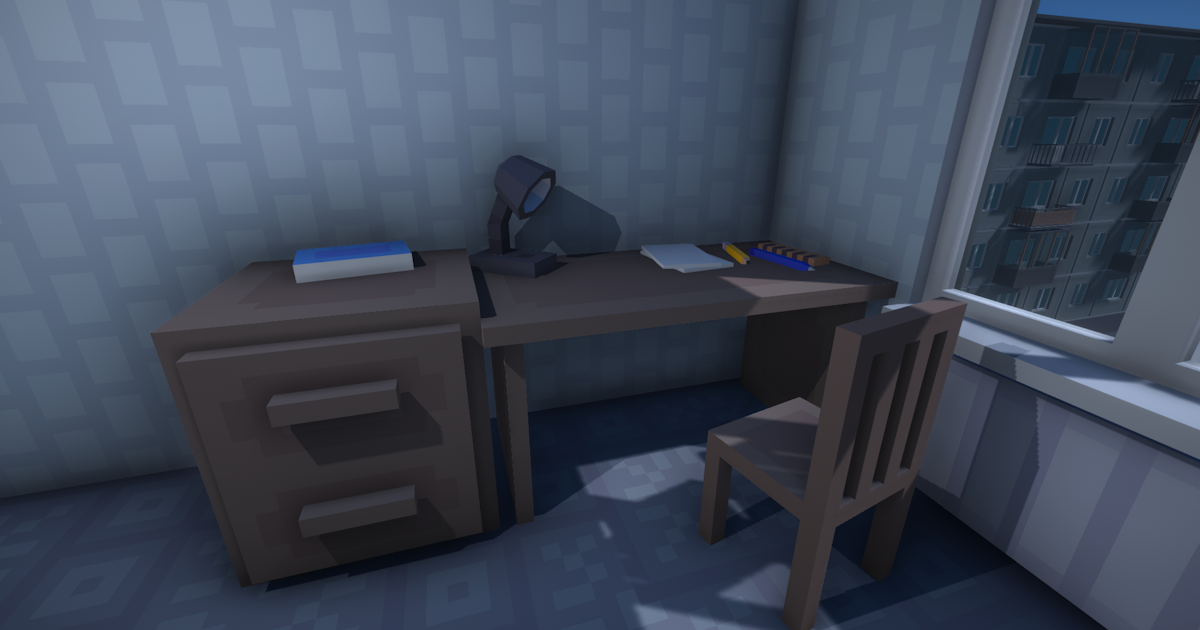
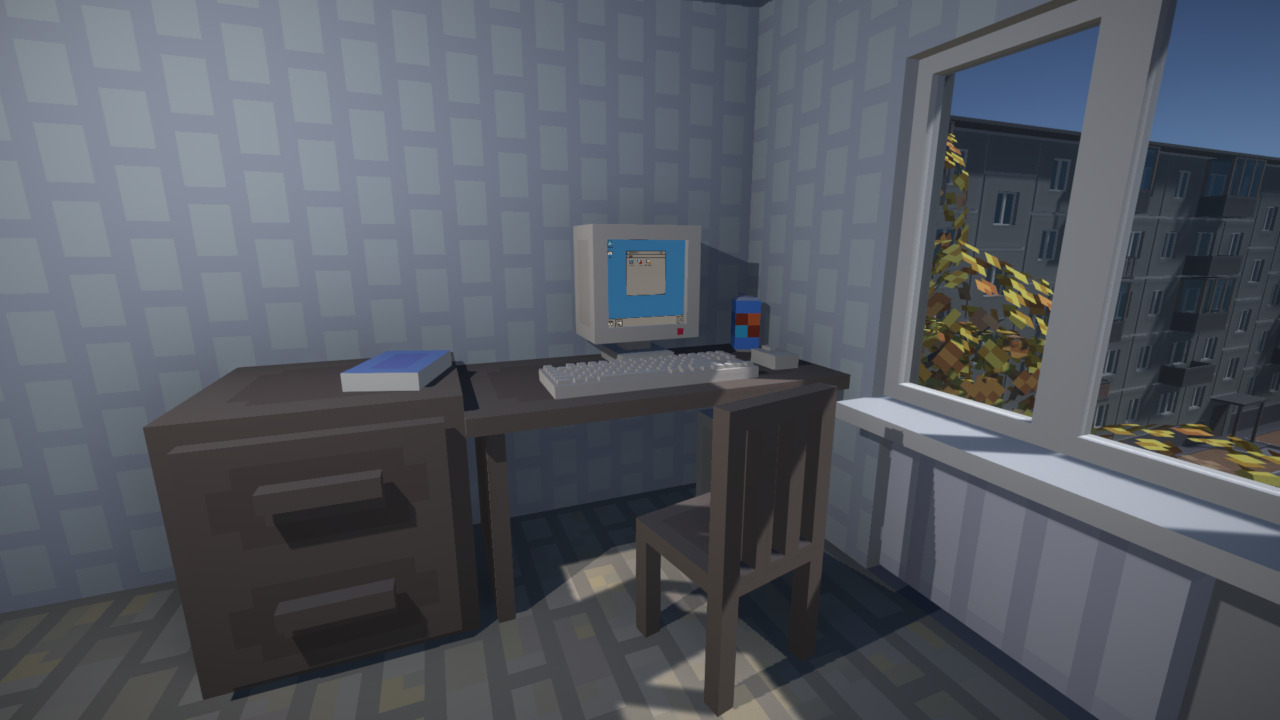
Add files via upload

diff --git a/games/itsautumn/index.html b/games/itsautumn/index.html
@@ -50,8 +50,8 @@
 					Это версия <span style="color: crimson">Dev!</span> В ней нет всех механик, интерактива и т.д.
 				</div>
 				<div class="text">
-					Версия: Dev 0.0.0.9 <br>
-					Дата обновления: 15 февраля 2024 <br>
+					Версия: Dev 0.0.0.10 <br>
+					Дата обновления: 3 августа 2024 <br>
 					Дата выхода: 25 ноября 2023
 				</div>
 			</section>
@@ -90,12 +90,12 @@
 				<a class="mlink lgame" href="https://www.dropbox.com/scl/fi/jurw08g4hs55tc7ovinly/It-s-Autumn.zip?rlkey=cuntinjyqfdgp04ffg3cvycee&st=thkb5ulo&dl=1">
 					<img class="icon" src="../../img/icon_windows.svg">
 					<div class="text"> Windows </div>
-					<div class="size"> (106 Мб) </div>
+					<div class="size"> (200 Мб) </div>
 				</a>
 				<a class="mlink lgame" href="https://www.dropbox.com/scl/fi/kz1z68r8j0f1lzy9iuaev/It-s-Autumn.apk?rlkey=6b7rv3v076z1gd1qwc0ijx90x&st=05tcoalu&dl=1">
 					<img class="icon" src="../../img/icon_android.svg">
 					<div class="text"> Android </div>
-					<div class="size"> (58 Мб) </div>
+					<div class="size"> (113 Мб) </div>
 				</a>
 			</div>
 
@@ -112,7 +112,21 @@
 				<div class="panel">
 					<div class="title"> Изменения </div>
 					<div class="content">
+						<div class="ver"> Dev 0.0.0.10 </div>
+						<div class="date"> 3 августа 2024 </div>
+						<div class="text">
+							Основное: <br>
+							• Добавлена чать карты <br>
+							• Изменен интерьер <br>
+							• Изменена графика <br>
+							• Изменен интерфейс <br>
+							• Добавлен компьютер <br>
+							• Фиксы багов
+						</div>
+					</div>
+					<div class="content">
 						<div class="ver"> Dev 0.0.0.9 </div>
+						<div class="date"> 15 февраля 2024 </div>
 						<div class="text">
 							Основное: <br>
 							• Фиксы багов
@@ -210,6 +224,7 @@
 					</div>
 					<div class="content">
 						<div class="ver"> Dev 0.0.0.1 </div>
+						<div class="date"> 25 ноября 2023 </div>
 						<div class="text">
 							• Игра вышла
 						</div>

diff --git a/games/index.html b/games/index.html
@@ -45,8 +45,8 @@
 							Вайбовая и атмосферная (почти) игра про осень. Квартира, подъезд, двор, гиганский ананас и волшебный кубик на пятом этаже
 						</div>
 						<div class="text">
-							Версия: Dev 0.0.0.9 <br>
-							Дата обновления: 15 февраля 2024
+							Версия: Dev 0.0.0.10 <br>
+							Дата обновления: 3 августа 2024
 						</div>
 						<a class="link" href="itsautumn">
 							<img class="icon" src="../img/icon_games.svg">

diff --git a/css/style.css b/css/style.css
@@ -237,6 +237,9 @@ img {
 	color: #97ADB2;
 	margin: 0 10px 0 -5px;
 }
+.date {
+	color: #97ADB2;
+}
 
 
 
@@ -306,8 +309,8 @@ img {
 	display: flex;
 }
 .screenshots {
-	width: 800px;
-	height: 420px;
+	width: 960px;
+	height: 540px;
 	border-radius: 10px;
 	overflow: hidden;
 }
@@ -529,8 +532,8 @@ input[name="r"] {
 		}
 
 	.screenshots {
-		width: 360px;
-		height: 189px;
+		width: 320px;
+		height: 180px;
 	}
 	.sc_nav_bar {
 		width: 40px;

diff --git a/games/koteykasfunnyswords/index.html b/games/koteykasfunnyswords/index.html
@@ -94,6 +94,7 @@
 					<div class="title"> Изменения </div>
 					<div class="content">
 						<div class="ver"> Dev 0.0.0.1 </div>
+						<div class="date"> 16 февраля 2024 </div>
 						<div class="text">
 							• Ресурспак вышел
 						</div>

diff --git a/games/goddaamntowerdefense/index.html b/games/goddaamntowerdefense/index.html
@@ -110,6 +110,7 @@
 					<div class="title"> Изменения </div>
 					<div class="content">
 						<div class="ver"> Dev 0.0.0.1 </div>
+						<div class="date"> 19 марта 2024 </div>
 						<div class="text">
 							• Игра вышла
 						</div>
